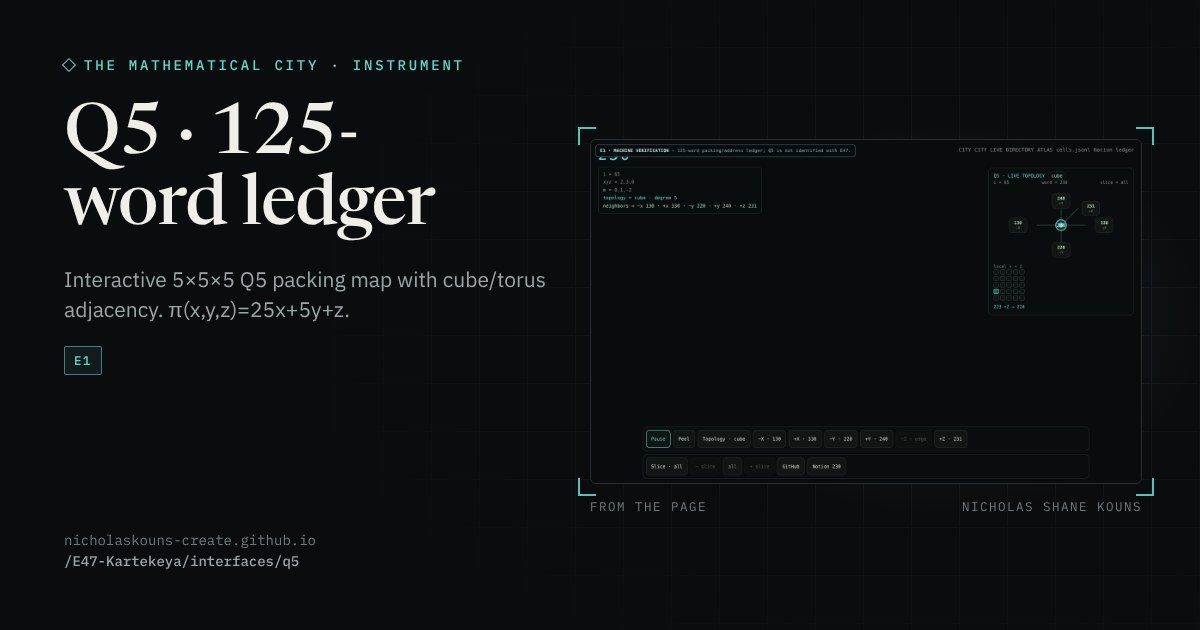
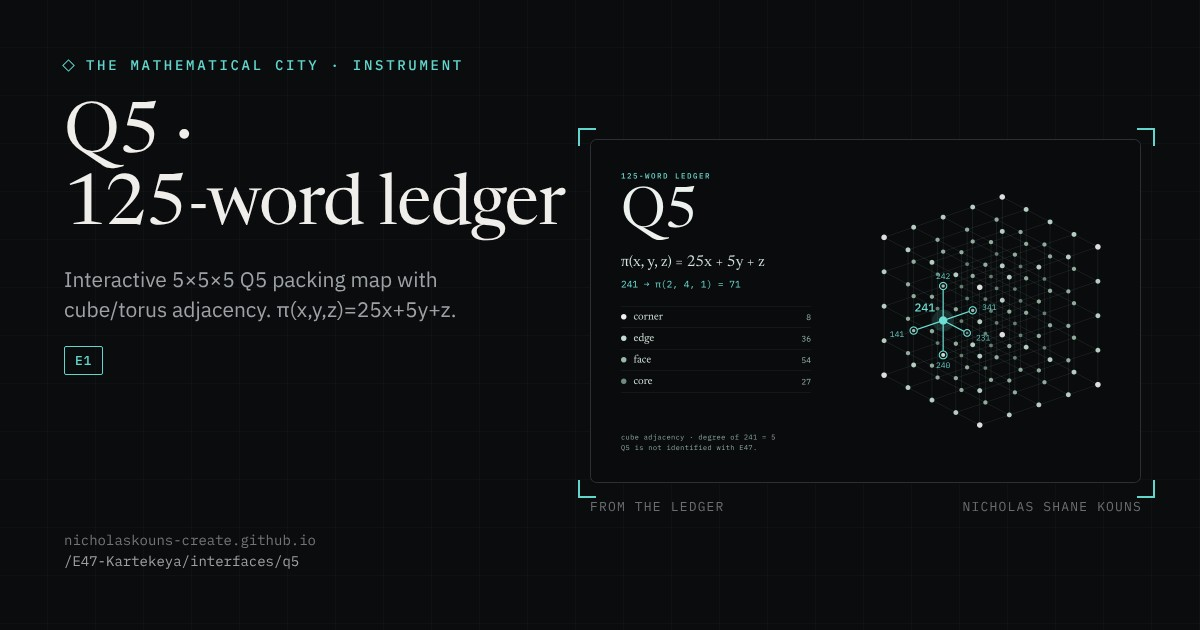
Give the Q5 ledger a cover drawn from its own lattice
The Q5 link-share card (assets/og/interfaces-q5.jpg) keeps the City
layout but now frames a cover computed from the page's own topology
module (website/interfaces/q5/topology.mjs, checked 125/125 against
cells.jsonl): the 5x5x5 lattice of the 125 words in an orthographic view
whose angles are chosen so no two points overlap, nodes toned by the
module's roles (corner 8, edge 36, face 54, core 27), cube-adjacency edges,
and word 241 lit with its five cube neighbors (141, 341, 231, 240, 242).
The cover also carries pi(x,y,z) = 25x + 5y + z with 241 -> pi(2,4,1) = 71
and the page's own boundary line, "Q5 is not identified with E47."

The earlier card showed a view of the page; its caption now reads FROM
THE LEDGER, and the og/twitter image alt text describes the new picture.
Website check: 23/23 pass. Graphics profiles: 4/4 pass.

Claude-Session: https://claude.ai/code/session_01E9qo61n2LS28f1HZ9D5JYZ

diff --git a/website/interfaces/q5/index.html b/website/interfaces/q5/index.html
@@ -46,12 +46,12 @@
 <meta property="og:image:type" content="image/jpeg">
 <meta property="og:image:width" content="1200">
 <meta property="og:image:height" content="630">
-<meta property="og:image:alt" content="Share card for Q5 · 125-word ledger, showing a view of the page">
+<meta property="og:image:alt" content="Share card for Q5 · 125-word ledger: the 5×5×5 lattice of 125 words, with word 241 and its five cube neighbors lit">
 <meta name="twitter:card" content="summary_large_image">
 <meta name="twitter:title" content="Q5 · 125-word ledger">
 <meta name="twitter:description" content="Interactive 5×5×5 Q5 packing map with cube/torus adjacency. π(x,y,z)=25x+5y+z.">
 <meta name="twitter:image" content="https://nicholaskouns-create.github.io/E47-Kartekeya/assets/og/interfaces-q5.jpg">
-<meta name="twitter:image:alt" content="Share card for Q5 · 125-word ledger, showing a view of the page">
+<meta name="twitter:image:alt" content="Share card for Q5 · 125-word ledger: the 5×5×5 lattice of 125 words, with word 241 and its five cube neighbors lit">
 <!-- city-share:end -->
 </head>
 <body><div data-evidence-class style="position:fixed;z-index:9999;left:10px;top:10px;max-width:min(92vw,760px);padding:7px 10px;border:1px solid #5d7b79;border-radius:9px;background:rgba(5,12,15,.92);color:#dff7f1;font:700 10px/1.4 ui-monospace,monospace;letter-spacing:.04em">E1 · MACHINE VERIFICATION · <span style="font-weight:500;color:#a9c1bd">125-word packing/address ledger; Q5 is not identified with E47.</span></div>
